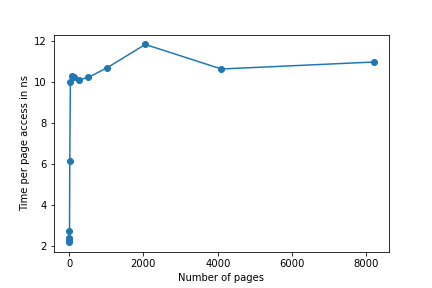
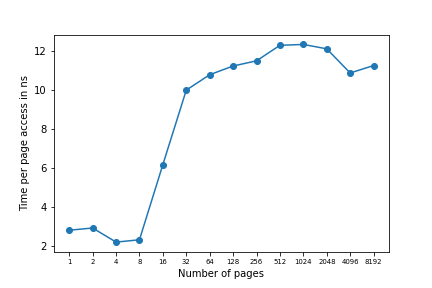
BSYS update

diff --git a/S3/BS/BSCode/c19_tlb/plot_access.py b/S3/BS/BSCode/c19_tlb/plot_access.py
@@ -15,8 +15,10 @@ maxNumPages = 16384
 numPages = 1
 trials = 10000
 
-arrayNumPages = np.zeros(int(round(np.log(maxNumPages) / np.log(2))))
+arrayNumPages = [0,0,0,0,0,0,0,0,0,0,0,0,0,0]
 arrayTime = np.zeros(int(round(np.log(maxNumPages) / np.log(2))))
+
+x = [1,2,4,8,16,32,64,128,256,512,1024,2048,4096,8192]
 
 count = 0
         
@@ -25,7 +27,7 @@ while numPages < maxNumPages:
     output = proc.communicate()[0]
     
     matchObj = re.search( rb'(?<=access: )(\d+(.\d*)?)', output, re.M|re.I)
-    print(matchObj.group())
+    print(str(numPages) + " : " + str(matchObj.group()))
     timeNS = float(matchObj.group())
 
     arrayNumPages[count] = numPages
@@ -34,8 +36,13 @@ while numPages < maxNumPages:
     count = count + 1
     numPages = numPages * 2
         
-plt.plot(arrayNumPages, arrayTime, 'o-')
+N = len(arrayNumPages)
+x2 = np.arange(N)
+    
+plt.plot(x2, arrayTime, 'o-')
+plt.xticks(x2, arrayNumPages, fontsize='x-small')
 plt.ylabel('Time per page access in ns')
 plt.xlabel('Number of pages')
+plt.title('TLB Size Measurement (multiple cpu)')
 plt.savefig('page_access.png')
 plt.show()

diff --git a/S3/BS/BSCode/c19_tlb/tlb.c b/S3/BS/BSCode/c19_tlb/tlb.c
@@ -59,7 +59,7 @@ int main(int argc, char **argv) {
 
     //timeSum = timeSum - overheadTimer - overheadLoop;
     //double averagePageAccess = timeSum / trials / numPages;
-    double averagePageAccess = (calculateTime(&start, &end) - overheadLoop - overheadTimer) / trials / numPages;
+    double averagePageAccess = (calculateTime(&start, &end)) / trials / numPages;
     printf("Average page access: %f ns\n", averagePageAccess);
     free(array);
 }
